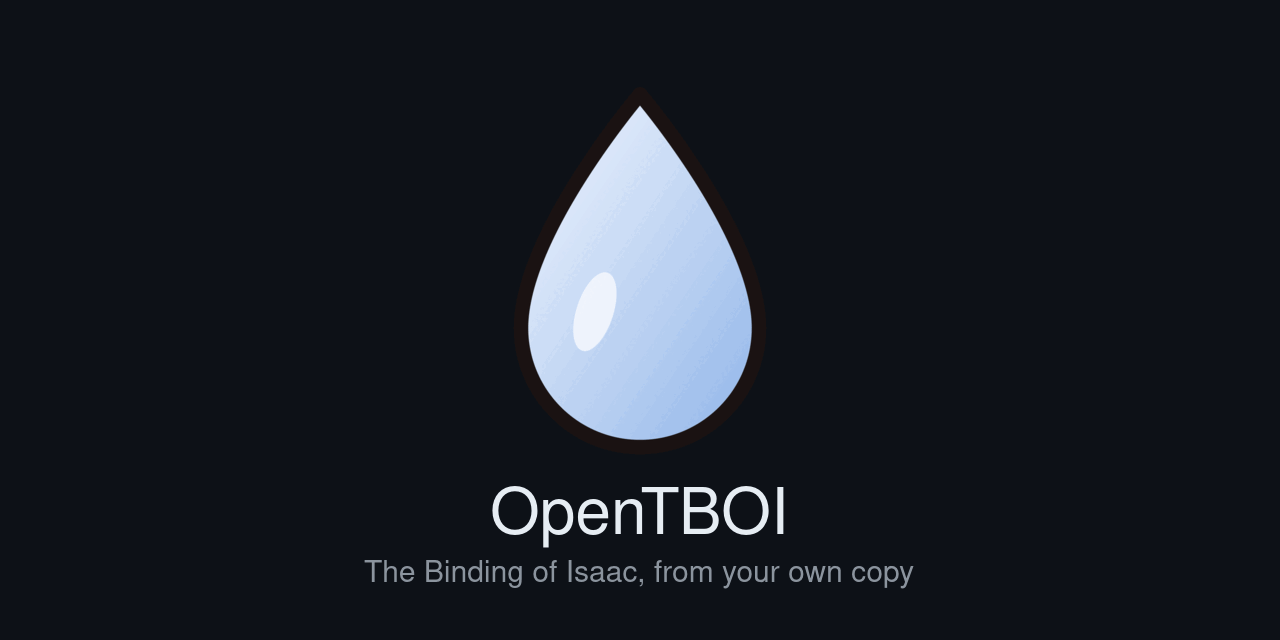
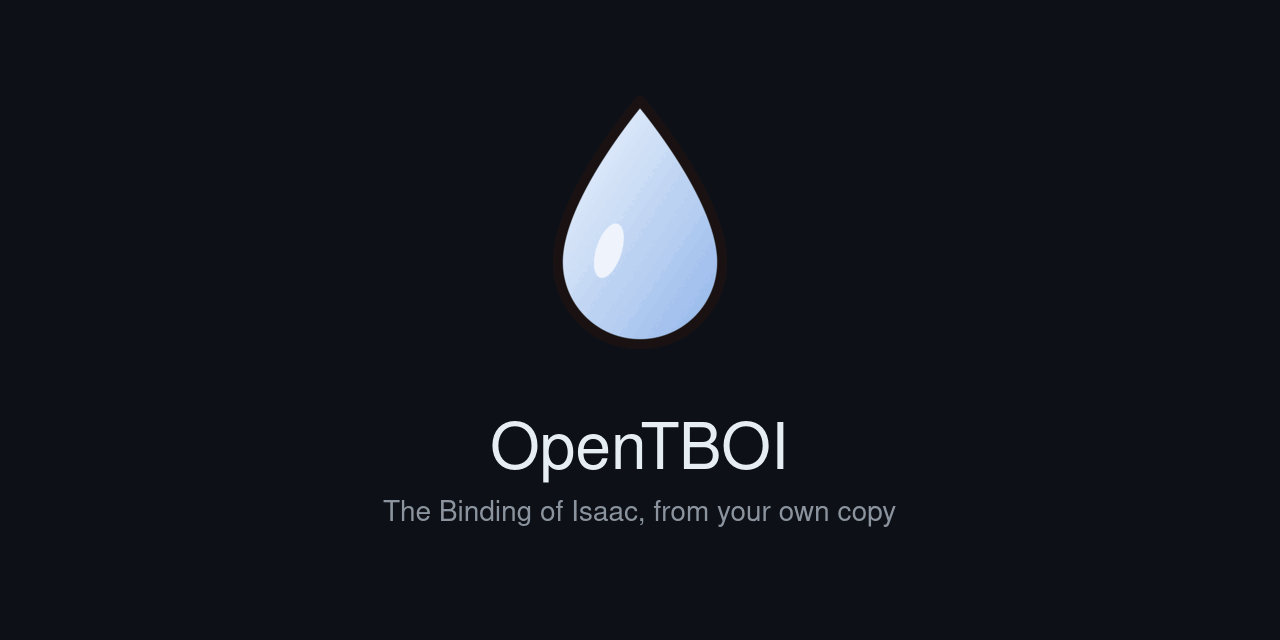
Group only minor and patch updates in Dependabot; shuck through its Action; redo the social preview (#3)
The first grouped Dependabot pull request mixed in breaking updates (symphonia's API changed) and
failed CI. The shuck install script is replaced by the linter's own Action, pinned by commit with
the version given. The social preview keeps inside GitHub's safe border. The GitHub setup script
requires pull requests for main, administrators included, and the shell job's check.

Changed region(s): [[0.2812, 0.25, 0.7188, 0.8438], [0.2812, 0.875, 0.7188, 0.9062], [0.4688, 0.2188, 0.5312, 0.25]]

diff --git a/AGENTS.md b/AGENTS.md
@@ -87,7 +87,7 @@ assets from the user's own Steam install at runtime. Never commit or ship game a
   draws go through `Random` (`below`, `index`, `centered`), not raw floats.
 - Versions are pinned and moved on purpose: `Cargo.lock`, the Rust toolchain (`rust-toolchain.toml`,
   an exact version; bump it with the fixes the newer Clippy asks for, in one commit), the shell
-  linter (`scripts/install-shuck.sh`, version and checksum) and the GitHub Actions (by commit).
+  linter (its version in `.github/workflows/ci.yml`) and the GitHub Actions (by commit).
   Dependabot proposes the crates' and Actions' updates a week after release; the weekly "Latest Rust"
   workflow tells when a newer compiler would break the build.
 - Before finishing: `cargo fmt`, `cargo clippy --all-targets --all-features` with no warnings (also
